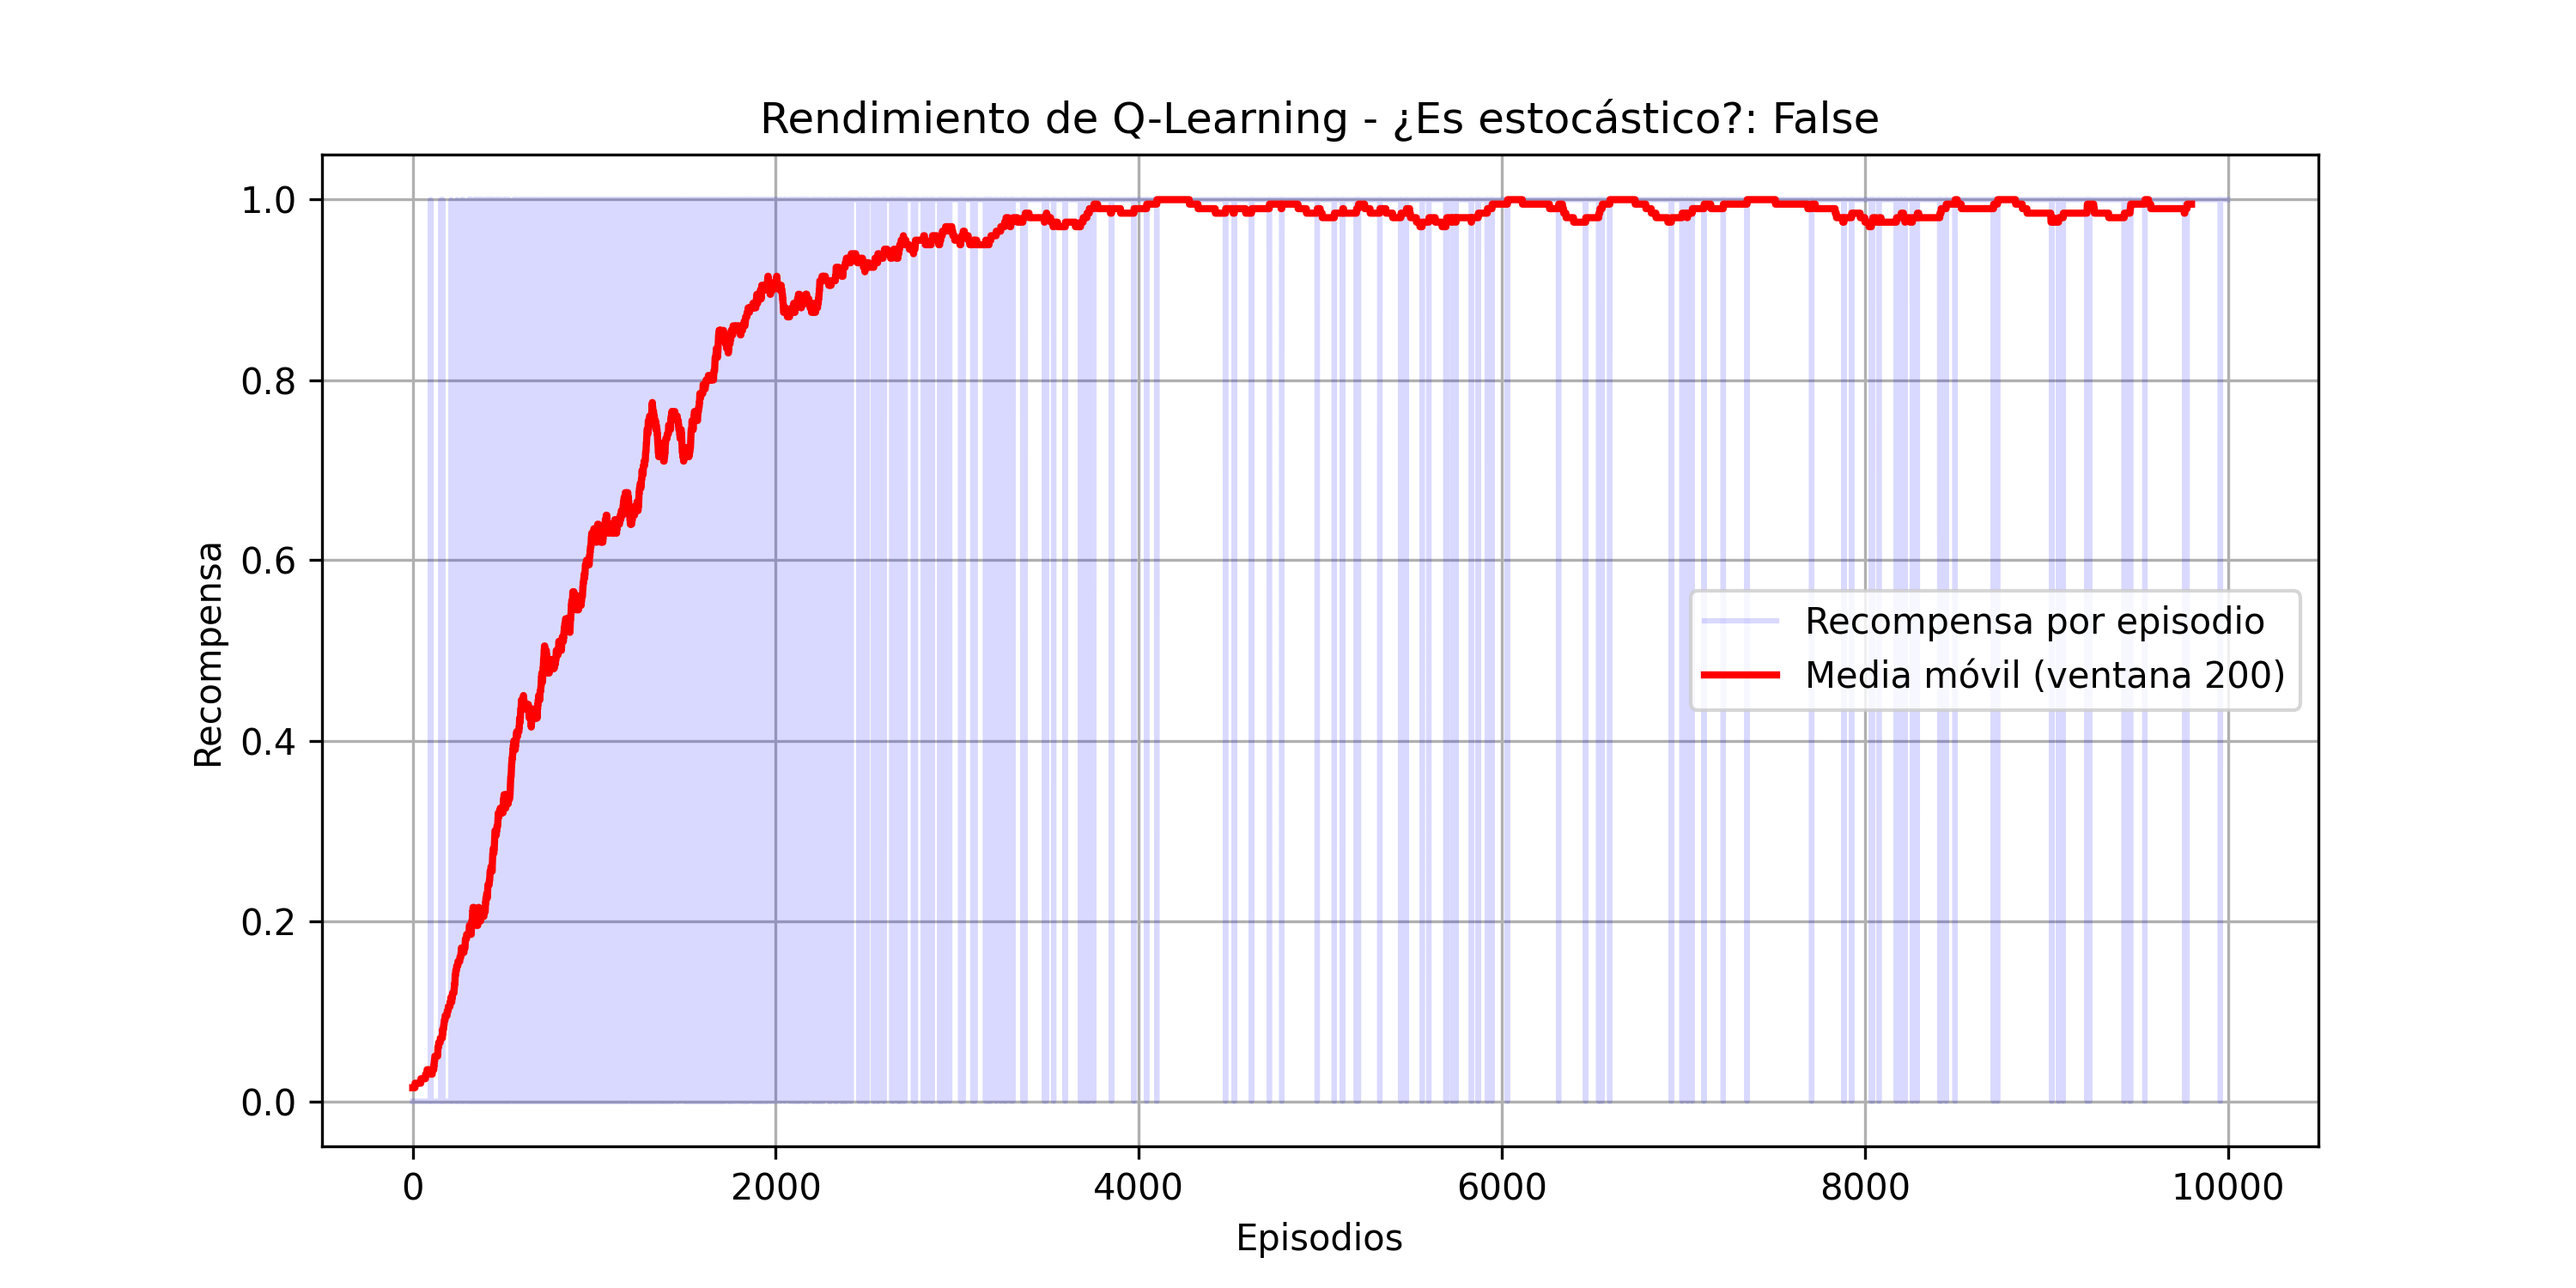
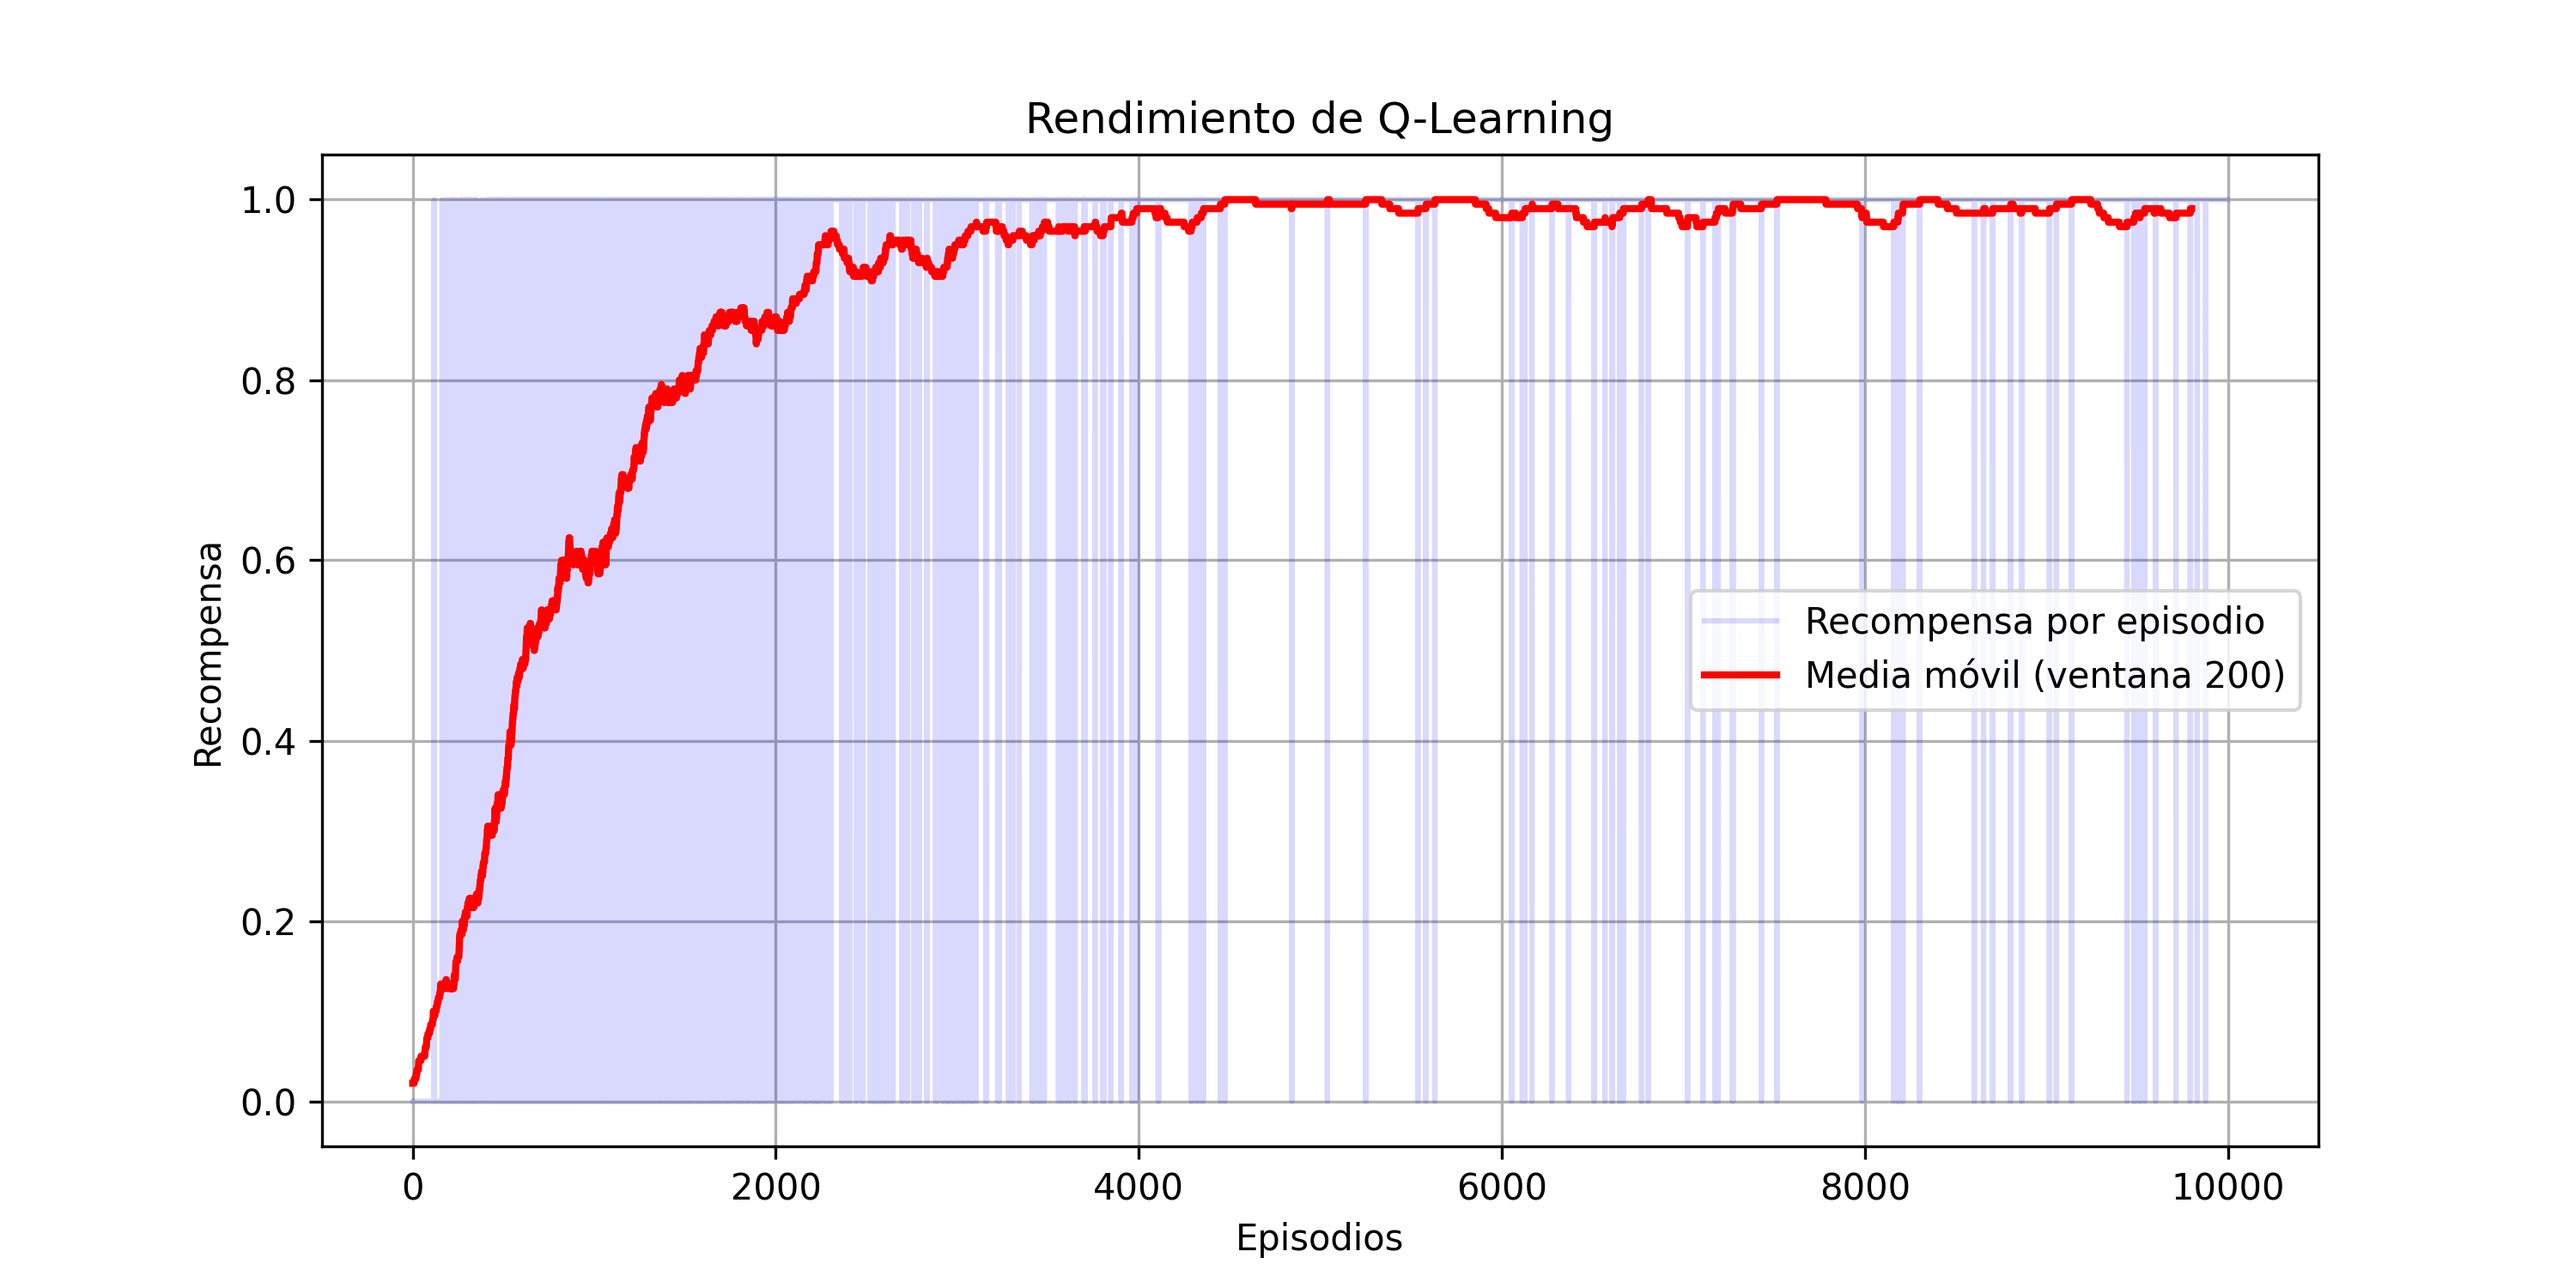
FL Deterministico y Estocástico

Changed region(s): [[0.248, 0.1533, 0.868, 0.8587], [0.155, 0.1533, 0.248, 0.8587], [0.31, 0.0613, 0.744, 0.1227]]

diff --git a/LaboratorioN3/FrozenLakeQLearning.py b/LaboratorioN3/FrozenLakeQLearning.py
@@ -7,7 +7,7 @@ import matplotlib.pyplot as plt
 # Configuración del entorno
 
 # MODIFICAR ACÁ: True para modo Estocástico, False para modo Determinístico
-MODO_ESTOCASTICO = False 
+MODO_ESTOCASTICO = True
 
 env = gym.make('FrozenLake-v1', is_slippery=MODO_ESTOCASTICO, render_mode=None)
 
@@ -56,42 +56,65 @@ def q_learning(env, episodios=10000, alpha=0.1, gamma=0.99, epsilon=1.0, epsilon
     politica = np.argmax(Q, axis=1)
     return Q, politica, recompensas_por_episodio
 
-# Gráfico de la política óptima
-def graficar_politica(politica, env):
+# Gráfico de la política y valores Q (Mapa de Calor)
+def graficar_politica(valores, politica, env):
     desc = env.unwrapped.desc.astype('U')
     shape = desc.shape
     
-    acciones_str = {0: '←', 1: '↓', 2: '→', 3: '↑'}
+    fig, ax = plt.subplots(figsize=(8, 8))
     
-    fig, ax = plt.subplots(figsize=(6, 6))
+    # Crear un mapa de colores RGB
+    color_map = np.zeros((shape[0], shape[1], 3))
     
-    # Mapa de colores para las casillas
-    color_map = np.zeros(shape)
-    for i in range(shape[0]):
-        for j in range(shape[1]):
-            if desc[i, j] == 'S': color_map[i, j] = 0.5
-            elif desc[i, j] == 'F': color_map[i, j] = 0.8
-            elif desc[i, j] == 'H': color_map[i, j] = 0.0
-            elif desc[i, j] == 'G': color_map[i, j] = 1.0
-            
-    ax.matshow(color_map, cmap='coolwarm')
+    # Normalizar valores para el degradado
+    v_max = np.max(valores) if np.max(valores) > 0 else 1.0
     
     for i in range(shape[0]):
         for j in range(shape[1]):
             estado = i * shape[1] + j
-            if desc[i, j] in ['H', 'G']:
-                ax.text(j, i, desc[i, j], ha='center', va='center', fontsize=20, fontweight='bold', color='white' if desc[i, j] == 'H' else 'black')
+            if desc[i, j] == 'H':
+                color_map[i, j] = [0.7, 0.0, 0.0] # Rojo oscuro para hoyos
+            elif desc[i, j] == 'G':
+                color_map[i, j] = [0.0, 0.8, 0.0] # Verde brillante para meta
             else:
+                # Degradado de verde según el valor
+                v_norm = valores[estado] / v_max
+                # Evitar que quede totalmente negro, base = 0.2
+                color_map[i, j] = [0.0, 0.2 + 0.6 * v_norm, 0.0]
+                
+    ax.imshow(color_map)
+    
+    for i in range(shape[0]):
+        for j in range(shape[1]):
+            estado = i * shape[1] + j
+            
+            if desc[i, j] == 'H':
+                ax.text(j, i, "0.0", ha='center', va='center', fontsize=20, fontweight='bold', color='white')
+            elif desc[i, j] == 'G':
+                ax.text(j, i, "G", ha='center', va='center', fontsize=24, fontweight='bold', color='white')
+            else:
+                # Mostrar el valor en el centro
+                val_str = f"{valores[estado]:.2f}"
+                ax.text(j, i, val_str, ha='center', va='center', fontsize=16, fontweight='bold', color='white')
+                
+                # Mostrar el triángulo de la acción en el borde
                 accion = politica[estado]
-                ax.text(j, i, acciones_str[accion], ha='center', va='center', fontsize=24)
+                if accion == 0: # Izquierda
+                    ax.text(j - 0.35, i, '◄', ha='center', va='center', fontsize=14, color='white')
+                elif accion == 1: # Abajo
+                    ax.text(j, i + 0.35, '▼', ha='center', va='center', fontsize=14, color='white')
+                elif accion == 2: # Derecha
+                    ax.text(j + 0.35, i, '►', ha='center', va='center', fontsize=14, color='white')
+                elif accion == 3: # Arriba
+                    ax.text(j, i - 0.35, '▲', ha='center', va='center', fontsize=14, color='white')
             
     ax.set_xticks(np.arange(shape[1]) - 0.5, minor=True)
     ax.set_yticks(np.arange(shape[0]) - 0.5, minor=True)
-    ax.grid(which="minor", color="black", linestyle='-', linewidth=2)
+    ax.grid(which="minor", color="white", linestyle='-', linewidth=2)
     ax.tick_params(which="minor", size=0)
     ax.set_xticks([])
     ax.set_yticks([])
-    plt.title("Política Óptima (Gris: Inicio, Naranja: Hielo, H: Hoyo, G: Meta)", pad=20)
+    plt.title("Mapa de Calor: Valores Q y Política", pad=20, fontsize=16)
     plt.show()
 
 
@@ -101,8 +124,31 @@ print("\n¡Entrenamiento finalizado!")
 print(f"Tabla Q resultante:\n{Q_tabla}")
 print(f"Política derivada de Q:\n{politica_q}")
 
-# Fase de prueba
-print("\nEjecutando episodio de prueba con la política aprendida...")
+# Evaluación de Tasa de Éxito en 1000 episodios
+episodios_eval = 1000
+victorias = 0
+env_eval = gym.make('FrozenLake-v1', is_slippery=MODO_ESTOCASTICO, render_mode=None)
+
+print(f"\nEvaluando tasa de éxito en {episodios_eval} episodios (Modo estocástico: {MODO_ESTOCASTICO})...")
+for ep in range(episodios_eval):
+    obs, info = env_eval.reset()
+    terminado = False
+    
+    while not terminado:
+        estado_eval = int(obs) if isinstance(obs, (int, np.integer)) else int(obs[0])
+        accion = int(politica_q[estado_eval])
+        obs, recompensa, done, trunc, info = env_eval.step(accion)
+        terminado = done or trunc
+        
+        if done and recompensa == 1.0:
+            victorias += 1
+
+env_eval.close()
+tasa_exito = (victorias / episodios_eval) * 100
+print(f"Tasa de éxito de la política aprendida: {tasa_exito:.2f}% ({victorias} victorias)")
+
+# Fase de prueba (1 episodio)
+print("\nEjecutando episodio de prueba final...")
 observacion, info = env.reset()
 episodio_terminado = False
 recompensa_total = 0
@@ -127,7 +173,7 @@ medias_moviles = np.convolve(historial_recompensas, np.ones(window)/window, mode
 
 plt.plot(historial_recompensas, alpha=0.15, color='blue', label='Recompensa por episodio')
 plt.plot(medias_moviles, color='red', linewidth=2, label=f'Media móvil (ventana {window})')
-plt.title(f"Rendimiento de Q-Learning - ¿Es estocástico?: {MODO_ESTOCASTICO}")
+plt.title(f"Rendimiento de Q-Learning")
 plt.xlabel("Episodios")
 plt.ylabel("Recompensa")
 plt.legend()
@@ -138,4 +184,7 @@ nombre_grafico = "q_learning_estocastico.png" if MODO_ESTOCASTICO else "q_learni
 plt.savefig(nombre_grafico, dpi=300)
 print(f"Gráfica guardada con éxito como: {nombre_grafico}")
 plt.show()
-graficar_politica(politica_q, env)
+
+# Calcular el valor del estado a partir de Q (el valor máximo esperado)
+valores_q = np.max(Q_tabla, axis=1)
+graficar_politica(valores_q, politica_q, env)

diff --git a/LaboratorioN3/FrozenLakeValueIteration.py b/LaboratorioN3/FrozenLakeValueIteration.py
@@ -106,7 +106,10 @@ def graficar_politica(valores, politica, env):
 
 
 # Configuración del entorno y cálculo
-env = gym.make('FrozenLake-v1', is_slippery=False, render_mode="human")
+# Modificar is_slippery para modo estocástico
+# True = modo estocástico, False = modo determinístico
+MODO_ESTOCASTICO = True
+env = gym.make('FrozenLake-v1', is_slippery=MODO_ESTOCASTICO, render_mode="human")
 
 valores_optimos, politica_optima = value_iteration(env)
 
@@ -116,7 +119,31 @@ print("Politica Optima:", politica_optima)
 # Graficar la política óptima y el mapa de calor
 graficar_politica(valores_optimos, politica_optima, env)
 
-# Ejecución con politica óptima
+# Evaluación de Tasa de Éxito en 1000 episodios
+episodios_eval = 1000
+victorias = 0
+env_eval = gym.make('FrozenLake-v1', is_slippery=MODO_ESTOCASTICO, render_mode=None)
+
+print(f"\nEvaluando tasa de éxito en {episodios_eval} episodios (Modo estocástico: {MODO_ESTOCASTICO})...")
+for ep in range(episodios_eval):
+    obs, info = env_eval.reset()
+    terminado = False
+    
+    while not terminado:
+        accion = int(politica_optima[obs])
+        obs, recompensa, done, trunc, info = env_eval.step(accion)
+        terminado = done or trunc
+        
+        if done and recompensa == 1.0:
+            victorias += 1
+
+env_eval.close()
+tasa_exito = (victorias / episodios_eval) * 100
+print(f"Tasa de éxito de la política óptima: {tasa_exito:.2f}% ({victorias} victorias)")
+
+
+# Ejecución con politica óptima (visualización de 1 episodio)
+print("\nVisualizando un episodio final...")
 observacion, info = env.reset()
 
 episodio_terminado = False
@@ -129,5 +156,5 @@ while not episodio_terminado:
     recompensa_total += recompensa
     episodio_terminado = episodio_terminado or truncamiento
 
-print(f"Recompensa obtenida: {recompensa_total}")
+print(f"Recompensa obtenida en la visualización: {recompensa_total}")
 env.close()
